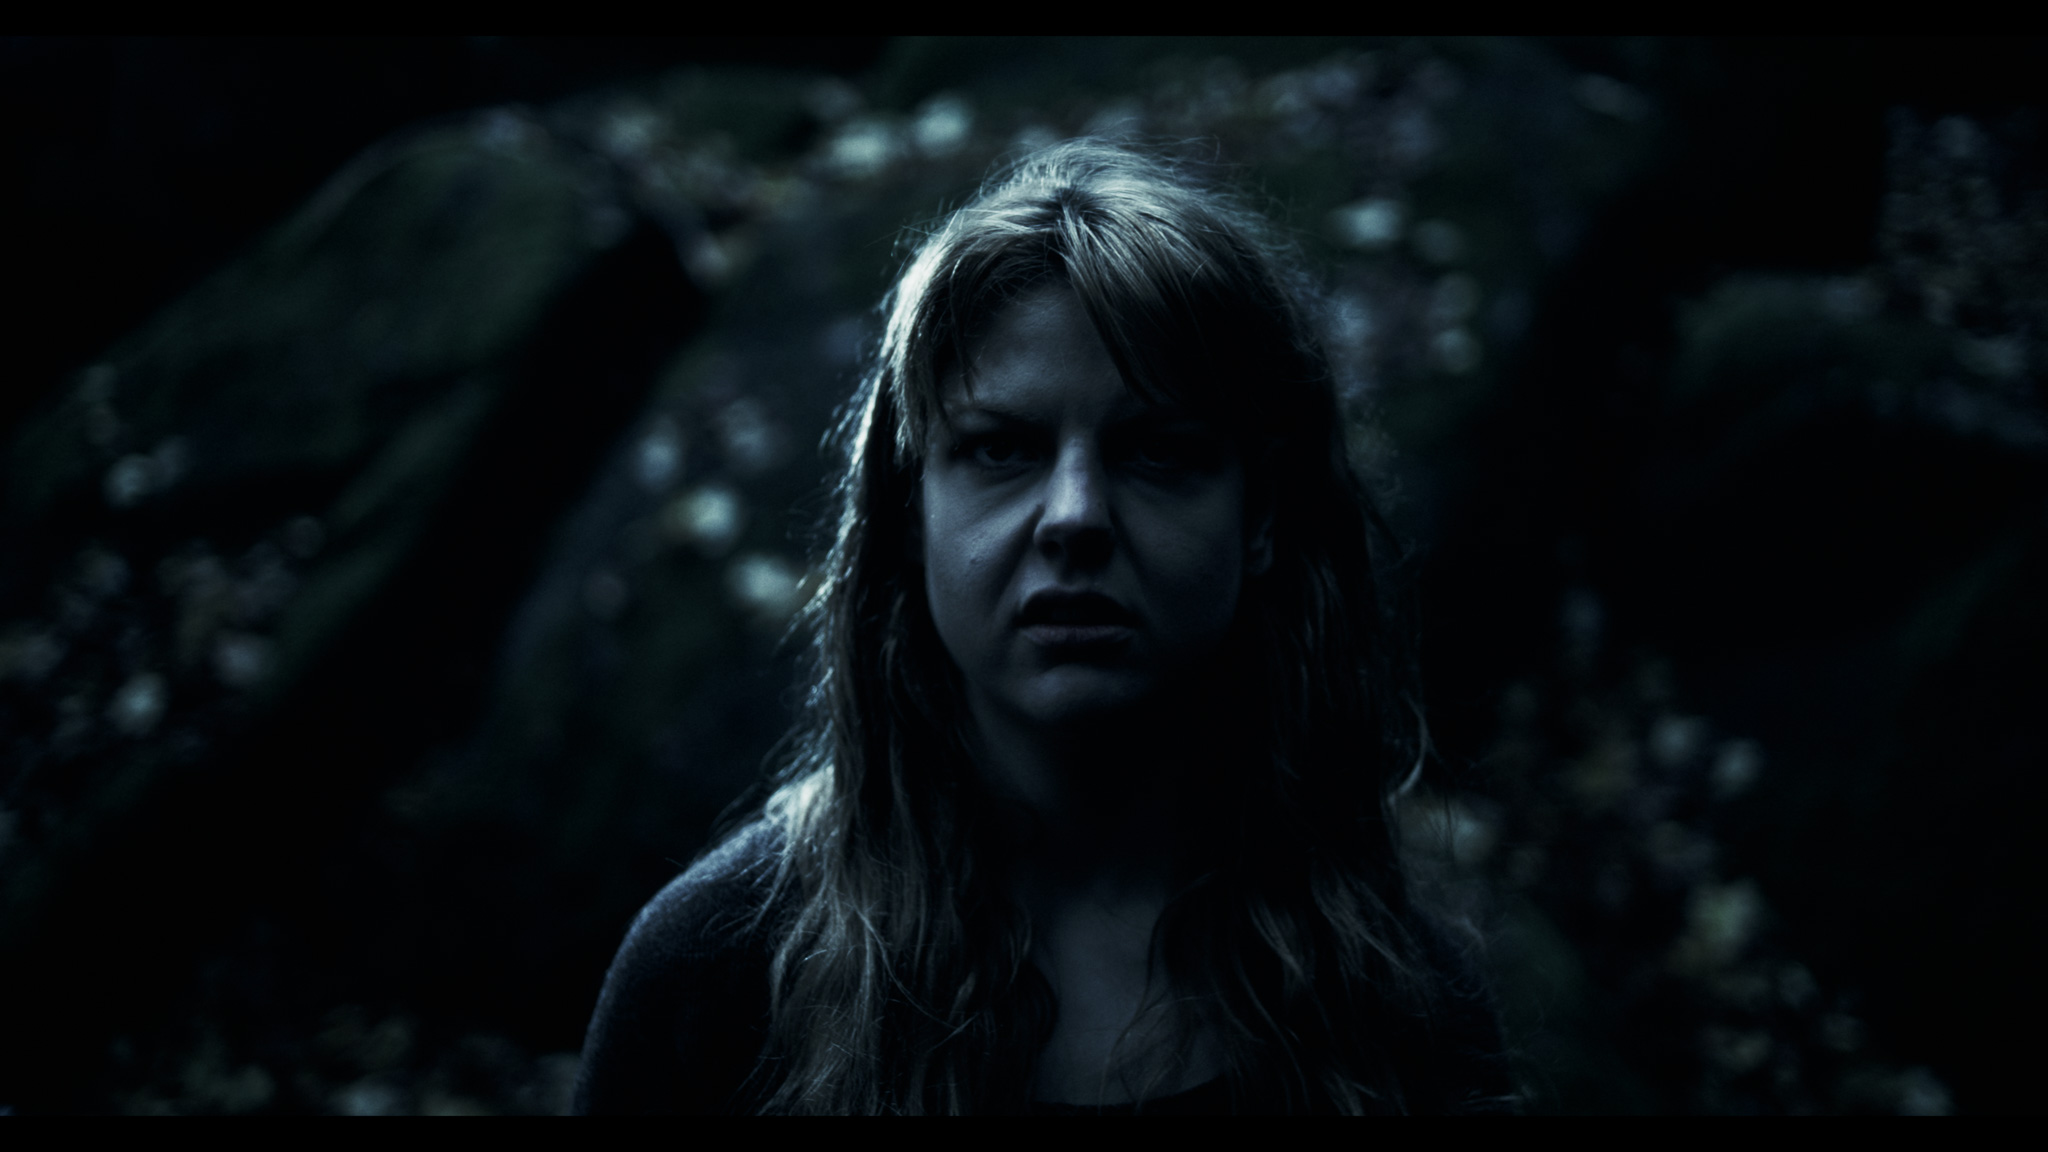
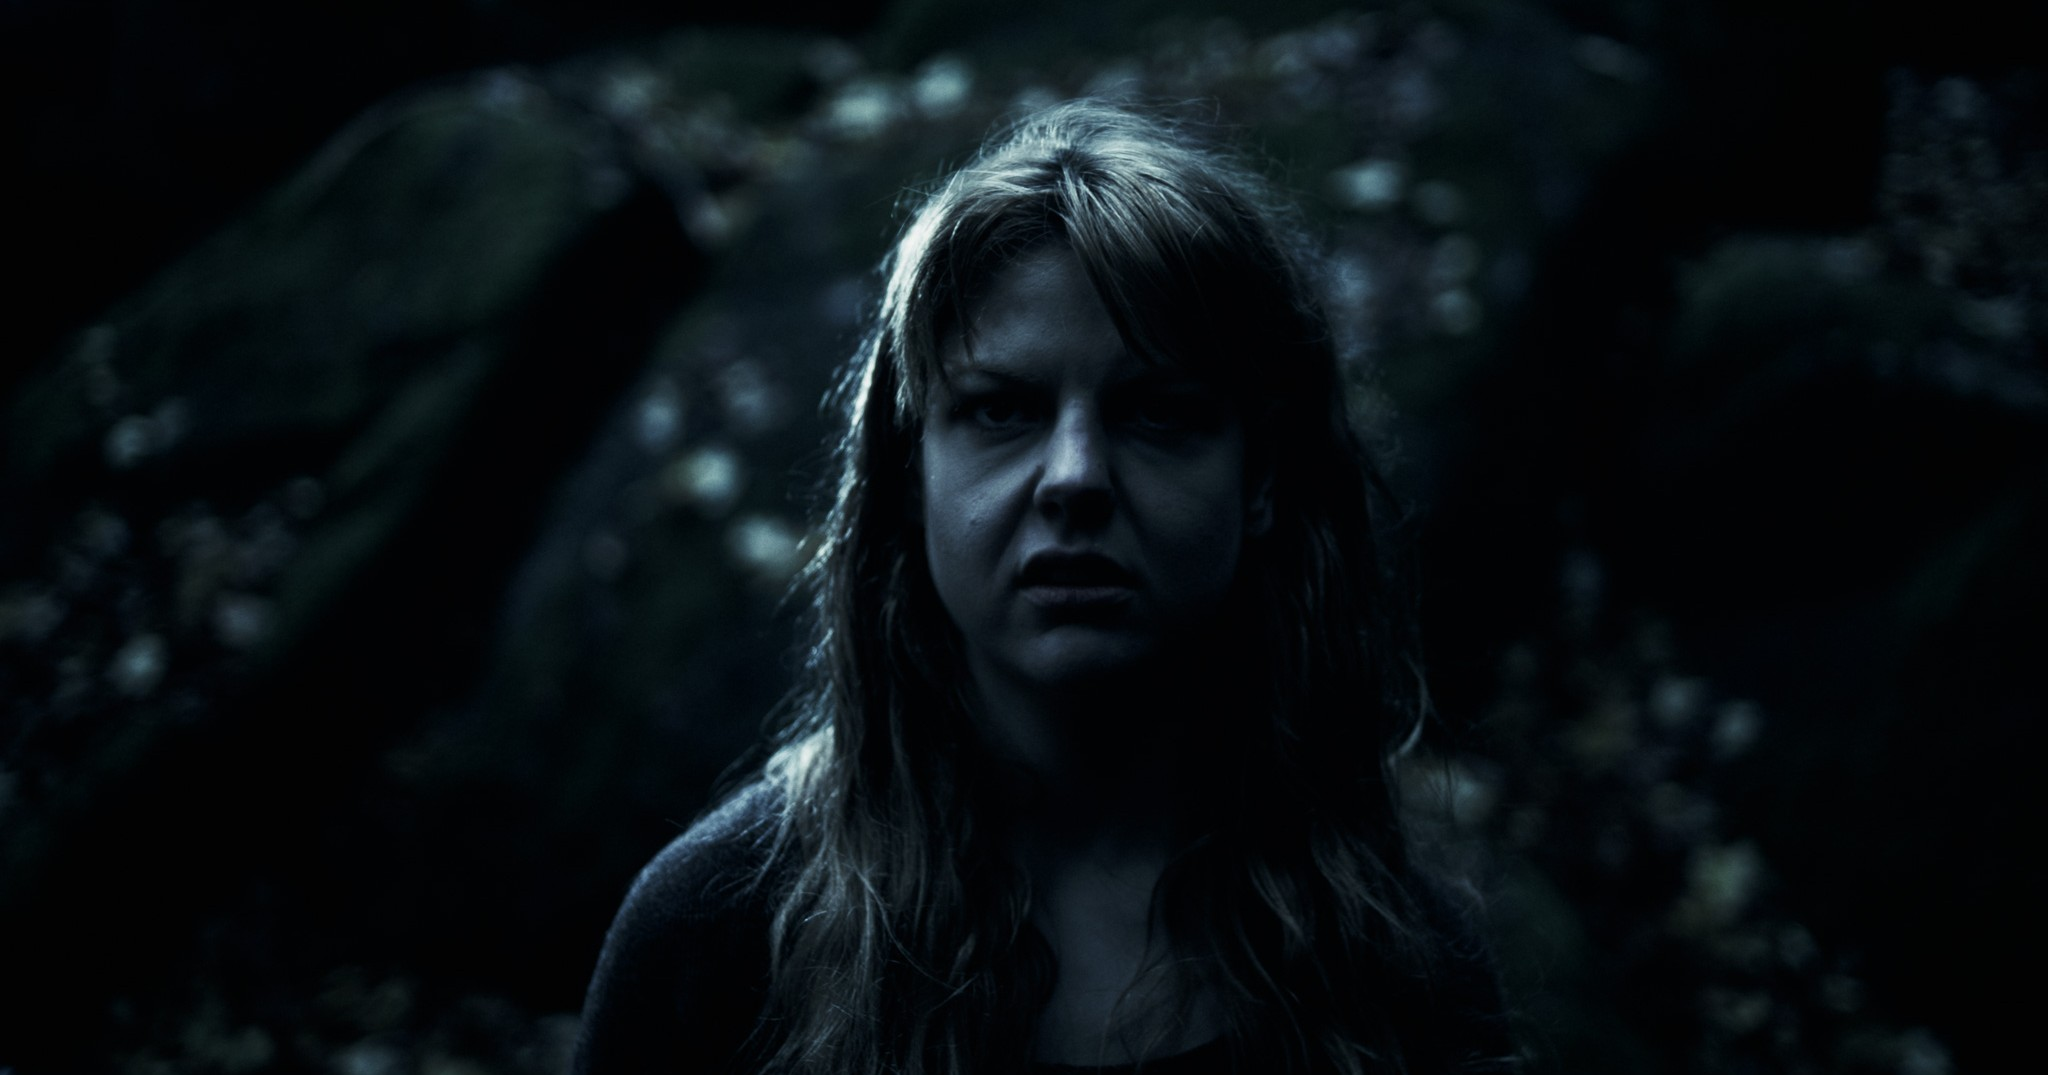
Pferd hinter den Entdecken-Kacheln mit weichem Uebergang, Stills ohne Balken
Die schwarzen Kinobalken oben und unten an den vier Stills sind
abgeschnitten, damit sie in Kacheln und Seitenkoepfen nicht auftauchen.

diff --git a/style.css b/style.css
@@ -600,3 +600,15 @@ body.leaving { opacity: 0; transition: opacity .35s ease; }
     .site-header.menu-open { padding: 0; border: 0; background: none; }
     .front:has(.topbar.open) .sound, .front:has(.topbar.open) .fs { display: none; }
 }
+
+/* Startseite: Pferd hinter „Die Welt des Schimmelreiters“, unten ausgeblendet */
+.horse-bg { position: relative; isolation: isolate; padding: 5rem 0 4rem; }
+.horse-bg::before {
+    content: ''; position: absolute; inset: 0; z-index: -2;
+    background: url("Schimmelreiter/Assets/schimmelreiter_blau.jpg") center 40% / cover no-repeat;
+    filter: brightness(2);
+}
+.horse-bg::after {
+    content: ''; position: absolute; inset: 0; z-index: -1;
+    background: linear-gradient(to bottom, var(--bg) 0%, rgba(5, 8, 10, 0) 16%, rgba(5, 8, 10, .15) 50%, rgba(5, 8, 10, .75) 78%, var(--bg) 100%);
+}

diff --git a/index.html b/index.html
@@ -87,6 +87,7 @@
         </div>
     </section>
 
+    <div class="horse-bg">
     <section class="block center">
         <div class="eyebrow">Entdecken</div>
         <h2>Die Welt des Schimmelreiters</h2>
@@ -99,6 +100,7 @@
             <a class="teaser" href="kontakt.html" style="background-image:url('Schimmelreiter/Assets/galerie/mood_4.jpg')"><h3>Kontakt</h3><span>Unterstützen oder mehr erfahren →</span></a>
         </div>
     </section>
+    </div>
 
     <section class="sponsors" aria-labelledby="sponsoren-titel">
         <div class="eyebrow">Mit Unterstützung von</div>
